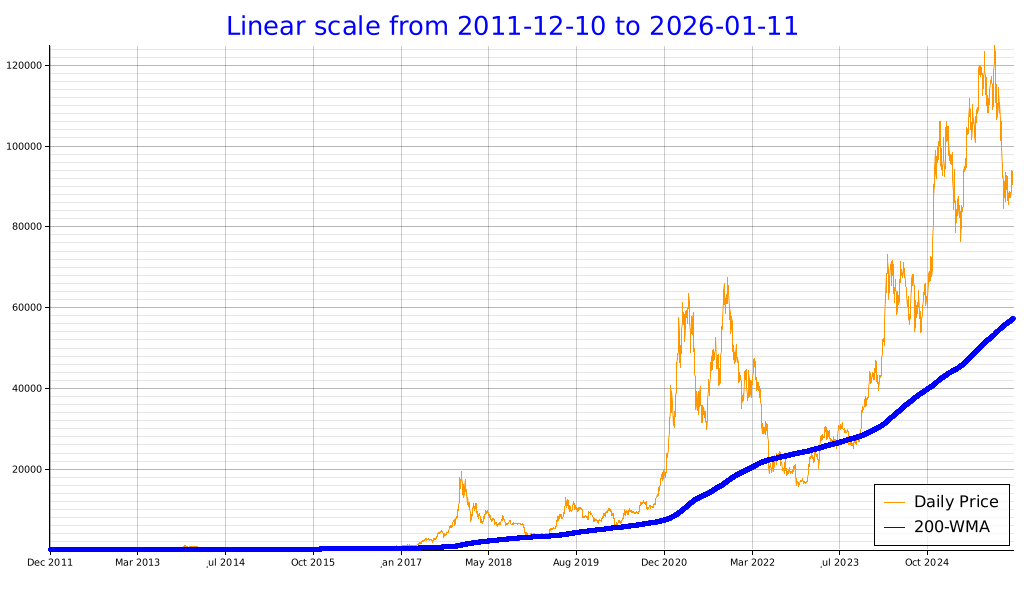
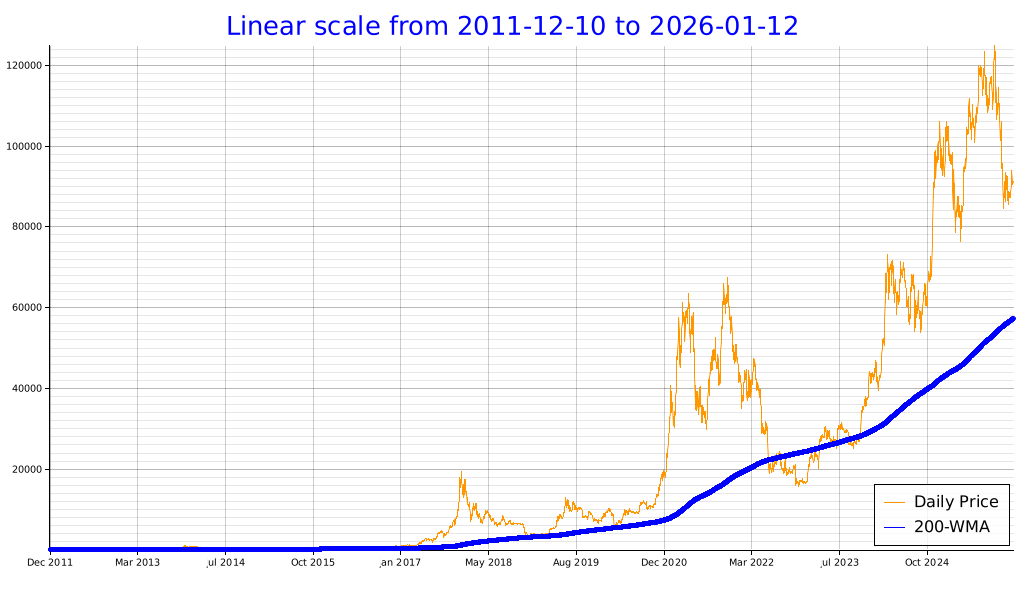
deploy: 95af0be866467ff5f422aab75c9020c8c4274433

diff --git a/index.html b/index.html
@@ -34,7 +34,7 @@
           <td>94,762.07</td>
           <td>87,399.40</td>
           <td></td>
-          <td>372,231,667,712.0</td>
+          <td>375,398,957,056.0</td>
         </tr>
         <tr>
           <td class='yearly-summary-year'>2025</td>
@@ -235,7 +235,7 @@
     <br><br>
     <a href='https://github.com/bitcoin-tools/btracker'>Link to the report codebase</a>
     <br><br>
-    This report was last updated at 2026-01-11 23:53:45.529312790 UTC.
+    This report was last updated at 2026-01-12 02:01:34.223979790 UTC.
     <br><br>
     <div class='scrollable-table'>
       <table>
@@ -255,16 +255,16 @@
         </thead>
         <tbody>
           <tr>
-            <td>2026-01-11</td>
-            <td>90,385.62</td>
-            <td>91,058.17</td>
-            <td>90,239.16</td>
-            <td>90,750.23</td>
-            <td class='wma-column'>57,237.80</td>
-            <td>37.77 (0.06 %)</td>
-            <td>52,900.57 (139.7 %)</td>
-            <td>819.00 (0.9 %)</td>
-            <td>363.58 (0.4 %)</td>
+            <td>2026-01-12</td>
+            <td>90,851.89</td>
+            <td>91,512.29</td>
+            <td>90,706.49</td>
+            <td>91,262.14</td>
+            <td class='wma-column'>57,238.17</td>
+            <td>38.14 (0.06 %)</td>
+            <td>53,412.47 (141.1 %)</td>
+            <td>805.80 (0.8 %)</td>
+            <td>875.49 (0.9 %)</td>
           </tr>
           <tr>
             <td>2026-01-10</td>
